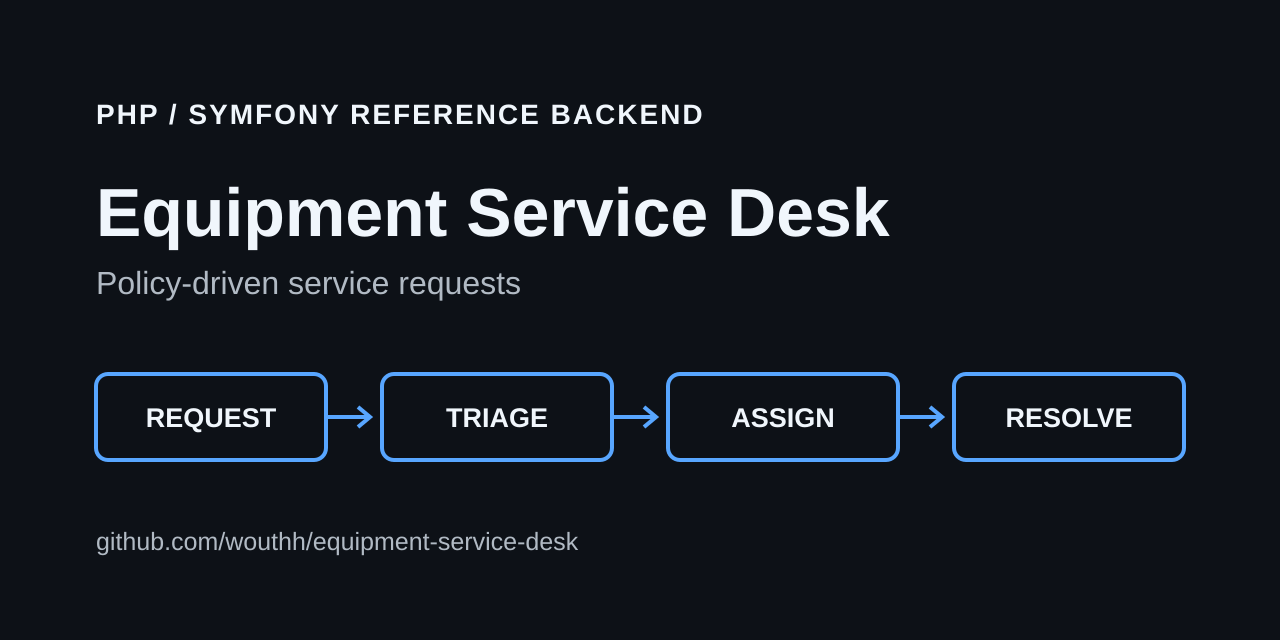
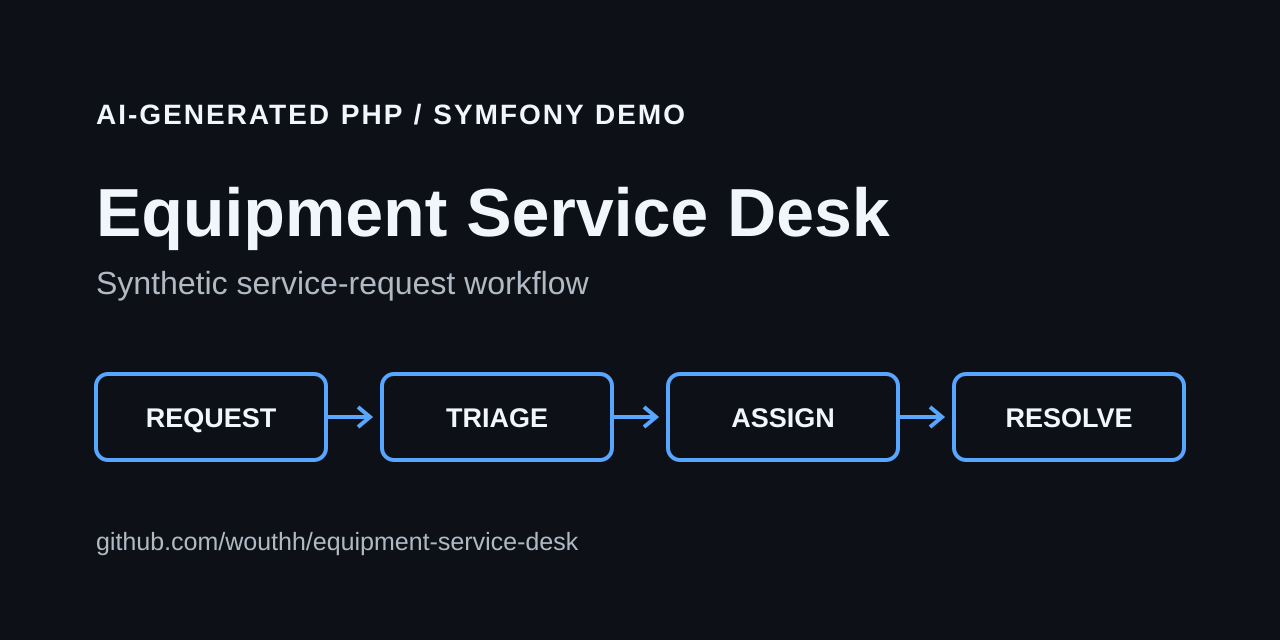
docs: correct demo provenance and preview (#2)

Changed region(s): [[0.0625, 0.1562, 0.5625, 0.2188], [0.0625, 0.4062, 0.4688, 0.4688]]

diff --git a/README.md b/README.md
@@ -1,25 +1,18 @@
 # Equipment Service Desk
 
-Equipment Service Desk is a synthetic PHP/Symfony backend for equipment requests, policy-based triage, technician assignment, and operational reporting.
+**AI-generated demonstration. This synthetic PHP/Symfony project was generated by a coding agent without my supervision during its original development. It is not a client project, has no production deployment or real users, and is not presented as evidence of personally supervised implementation.**
 
-**Status: maintained reference implementation.** Original synthetic software for a local demonstration; no production deployment, real users, or measured-scale claim.
+This repository contains a fictional equipment-request workflow. The source, tests, and commands below describe that artifact; this page does not certify it as an authoritative reference design. Later documentation or automated checks do not change its original development provenance.
 
-The useful part is what happens when requests are retried, assignments conflict, authorization fails, or a worker stops—not just the happy path.
-
-## The complete workflow
+## The demonstration workflow
 
 Register equipment → submit a request → confirm triage → assign a technician → record resolution → inspect history and download an asynchronous report.
 
-- Requesters see their own requests; technicians see current assignments, including completed work.
-- Coordinators triage and assign, but cannot resolve on a technician's behalf.
-- Policy decisions retain their version and original inputs.
-- Idempotency records, state changes, audit entries, and successful responses commit together.
-- Optimistic versions prevent silent assignment overwrites.
-- Report creation and queue insertion share one PostgreSQL transaction. Redelivery does not duplicate completed results.
+The synthetic implementation describes requester, technician, and coordinator roles; policy snapshots; idempotency records; optimistic assignment versions; a PostgreSQL-backed report queue; and bounded report output. These are characteristics of this codebase, not a claim that a real organization used it.
 
 ## Run locally
 
-Requirements: Docker Engine with Compose v2 or newer, Git, Make, and Python 3. Containers supply PHP and Composer. Make passes the current Linux UID/GID to bind-mounted development services; see [operations](docs/operations.md) for direct Compose use.
+Requirements: Docker Engine with Compose v2 or newer, Git, Make, and Python. Containers supply PHP and Composer. Make passes the current Linux UID/GID to bind-mounted development services; see [operations](docs/operations.md) for direct Compose use.
 
 ```sh
 make init
@@ -33,34 +26,32 @@ make token ACTOR=coordinator-a
 
 The API listens only on `http://127.0.0.1:8089`. Token issuance writes an ignored, owner-only curl configuration file and prints only its relative filename and token ID. Use the reported file with `curl --config <reported-file>`; do not paste tokens into commands, logs, or source.
 
-`.env.example` documents the variables. `make init` generates `.env.local` without overwriting existing configuration; Compose and Symfony then load it. The database has no host port. No real equipment or external service is contacted.
+`.env.example` documents the variables. `make init` generates `.env.local` without overwriting existing configuration; Compose and Symfony then load it. The database has no host port. The demonstration contacts no real equipment service.
 
-## Try the behavior
+## Try the documented workflow
 
 ```sh
 make walkthrough
 make check
 ```
 
-The walkthrough creates a separate disposable database and loopback-only HTTP stack. It exercises the complete workflow, replay, cross-user denial, stale assignment, an actual worker, and CSV download, then removes only its own containers and temporary token files.
+The walkthrough is documented to create its own disposable database and loopback-only HTTP stack. It exercises the fictional request flow, replay, cross-user denial, stale assignment, a worker, and CSV download, then removes only its own containers and temporary token files.
 
-`make check` runs unit, PostgreSQL integration, API/OpenAPI contract, concurrency, worker, migration, static-analysis, style, configuration, documentation, dependency-audit, redacted-scan, walkthrough, and production-image smoke gates. It does not format, push Git, publish images, or deploy. See [testing](docs/testing.md) for commands and evidence limits.
+`make check` is the project's local acceptance command. Its documented gates cover unit and PostgreSQL integration tests, API/OpenAPI contracts, concurrency and worker behavior, migrations, static analysis, formatting, configuration, documentation, dependency review, privacy scanning, the walkthrough, and a production-image smoke check. See [testing](docs/testing.md) for scope and evidence limits. These commands describe the repository's checks; a check result applies only to the specific source state where it was run.
 
 ## Architecture and contract
 
-A modular monolith: **Access**, **Equipment**, **ServiceRequests**, **Reporting**, and **Audit**, with explicit application handlers and one database transaction boundary.
-
-PHP 8.4, Symfony 7.4 LTS, Doctrine ORM 3.6 / DBAL 4.4 / Migrations 3.9, PostgreSQL 18, PHPUnit 13, PHPStan level 10, and PHP-CS-Fixer. Compatible patches are locked; base images and CI actions are digest/SHA-pinned.
+The public project documentation describes a PHP 8.4/Symfony 7.4 modular monolith with Access, Equipment, ServiceRequests, Reporting, and Audit areas.
 
 - [Architecture](docs/architecture.md) and [domain rules](docs/domain.md)
-- [OpenAPI 3.0.4](openapi/openapi.yaml) and [API usage](docs/api.md)
+- [OpenAPI 3.0.4](openapi/openapi.yaml) and [API use](docs/api.md)
 - [Security](docs/security.md), [operations](docs/operations.md), and [walkthrough](docs/walkthrough.md)
-- [Contributing](CONTRIBUTING.md) and [agent guidance](AGENTS.md)
+- [Contributing](CONTRIBUTING.md) and [repository guidance](AGENTS.md)
 
 ## Deliberate limits
 
-One organization, three roles, no frontend, uploads, email, external identity provider, inventory, or configurable rules language. Reports are bounded to 31 days, 10,000 rows, and 5 MiB. Reports and idempotency records have no automatic retention policy.
+The fictional scope is one organization with three roles. It has no frontend, uploads, email, external identity provider, inventory integration, or configurable rules language. Reports are bounded to 31 days, 10,000 rows, and 5 MiB. Reports and idempotency records have no automatic retention policy.
 
-Audit history is application-level, not tamper-proof. Queue delivery is at least once, not exactly once. Nonlocal deployment requires TLS and a separately reviewed configuration.
+Audit history is application-level, not tamper-proof. Queue delivery is at least once, not exactly once. A nonlocal deployment requires TLS and a separately reviewed configuration. The project has no production deployment, real users, or measured-scale claim, and is not presented as a personal reference implementation.
 
 Original code and documentation use [Apache-2.0](LICENSE). Dependencies retain their own [licenses and notices](docs/dependencies.md).
